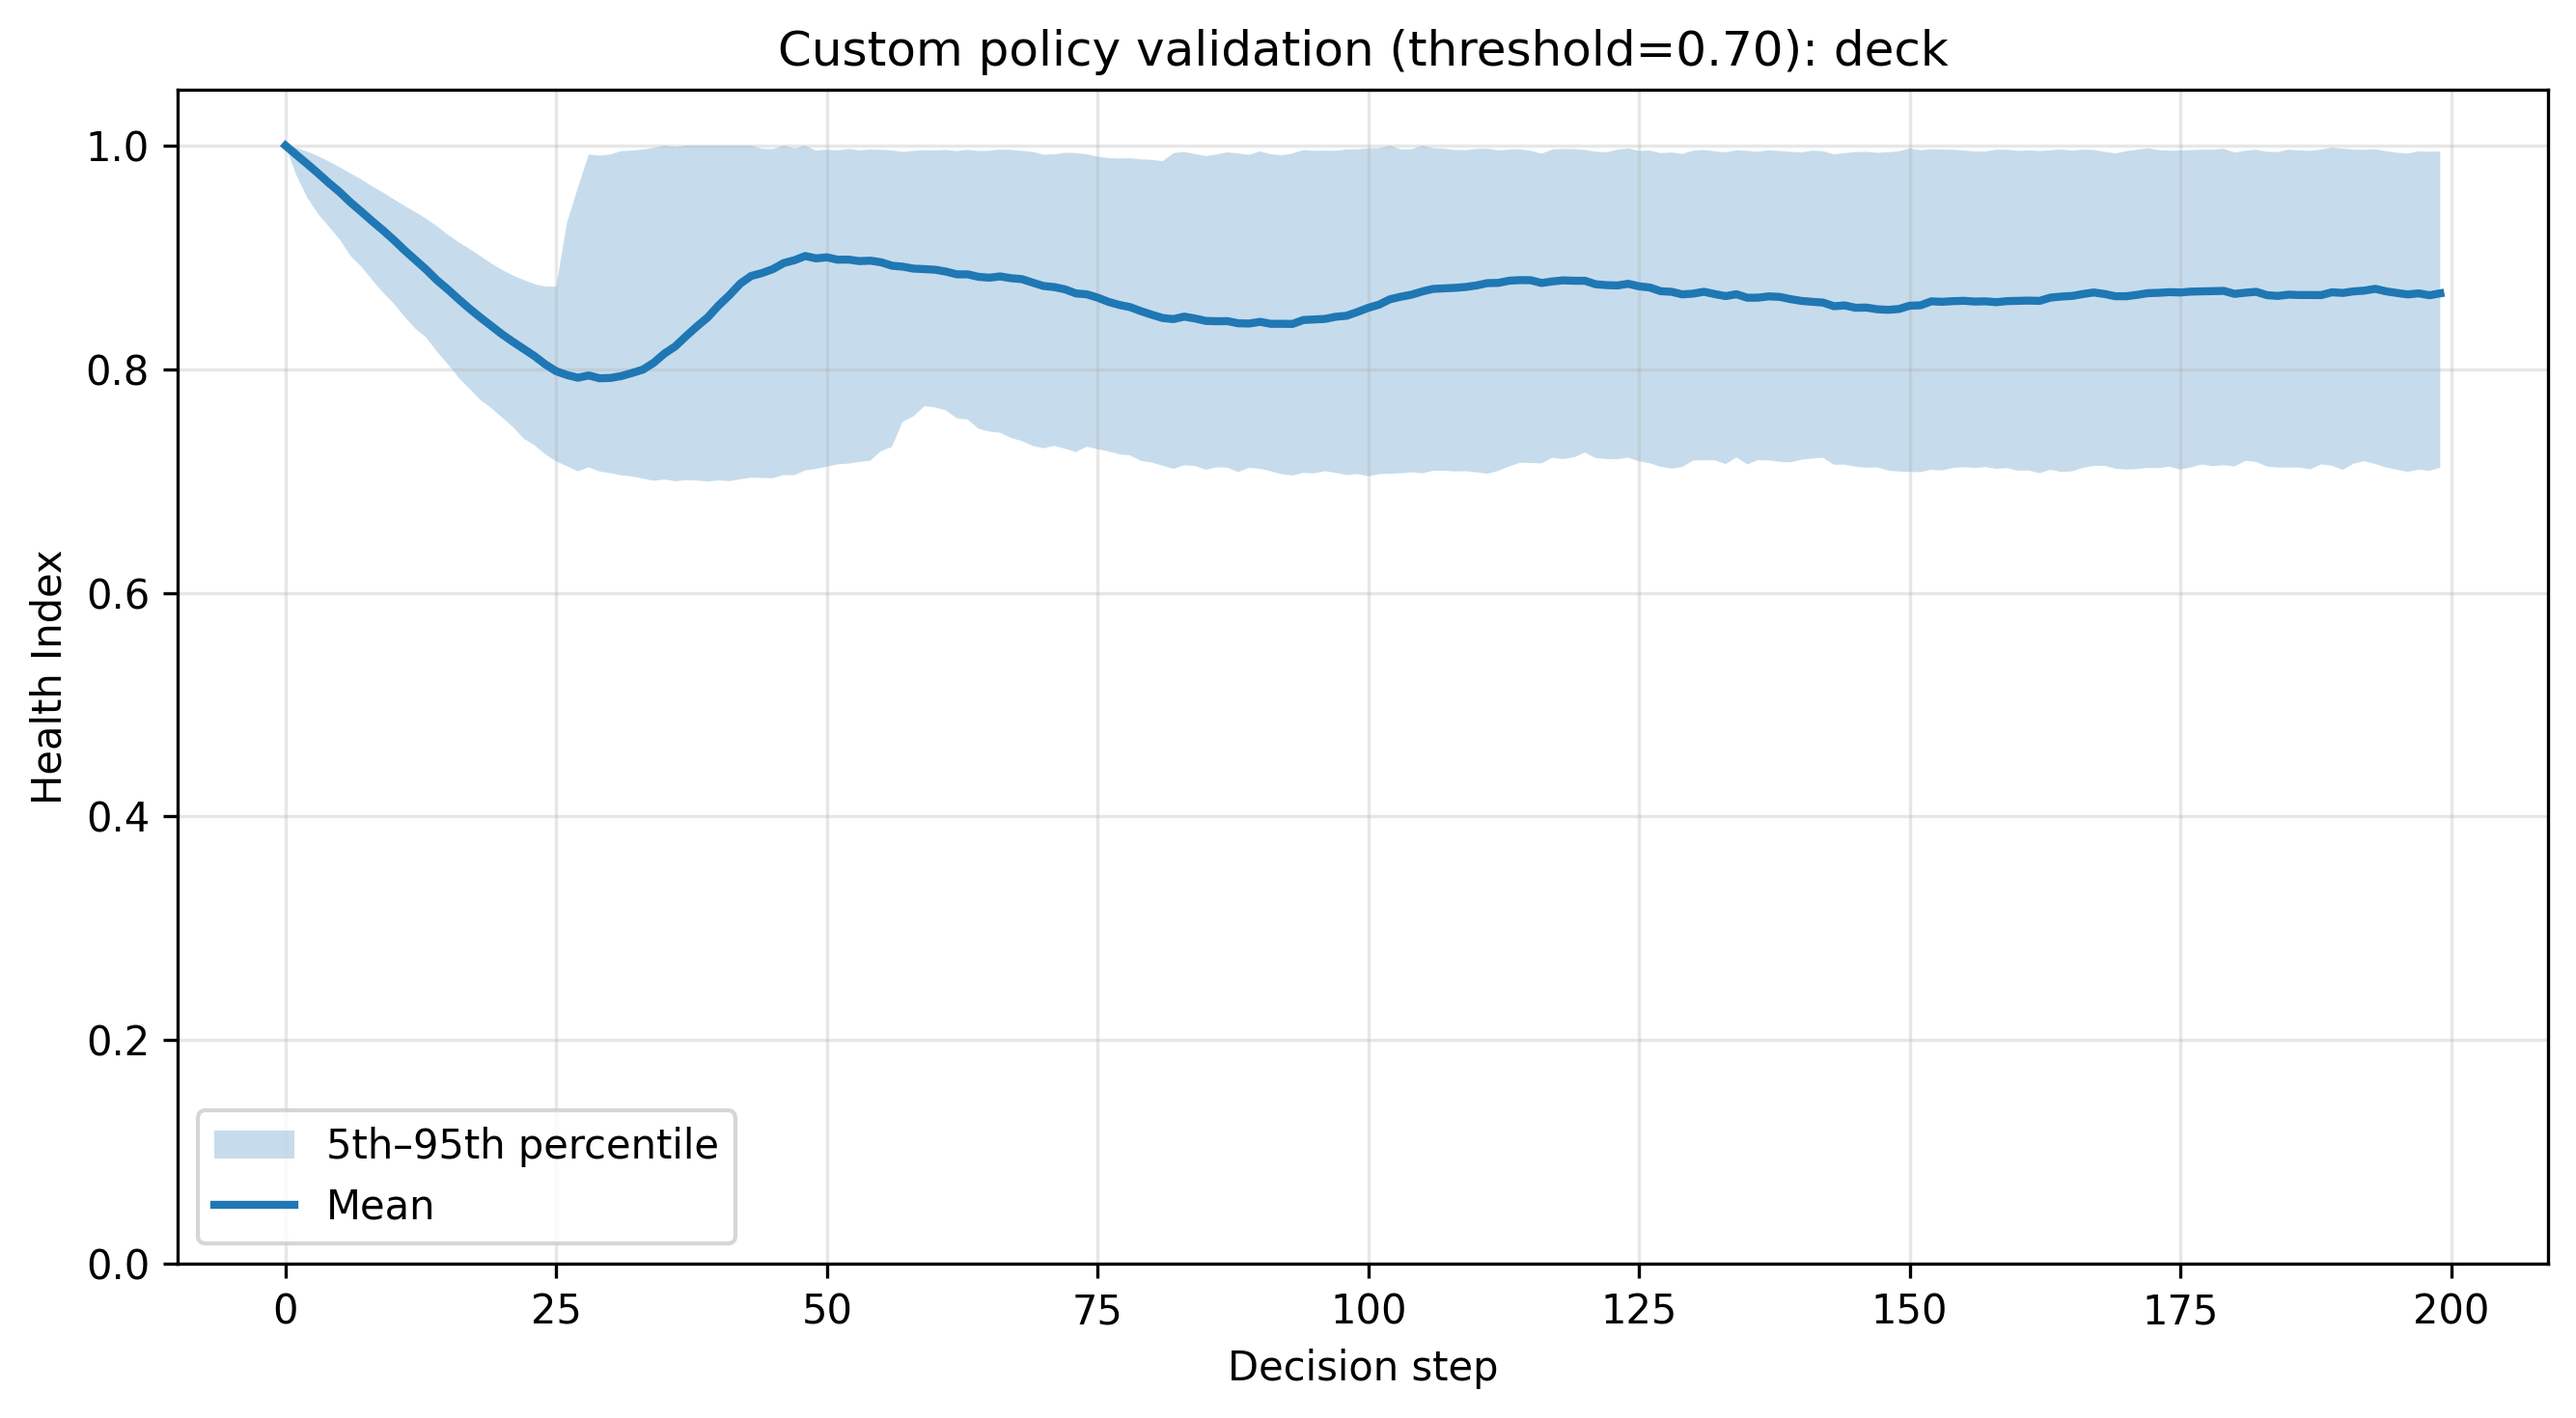
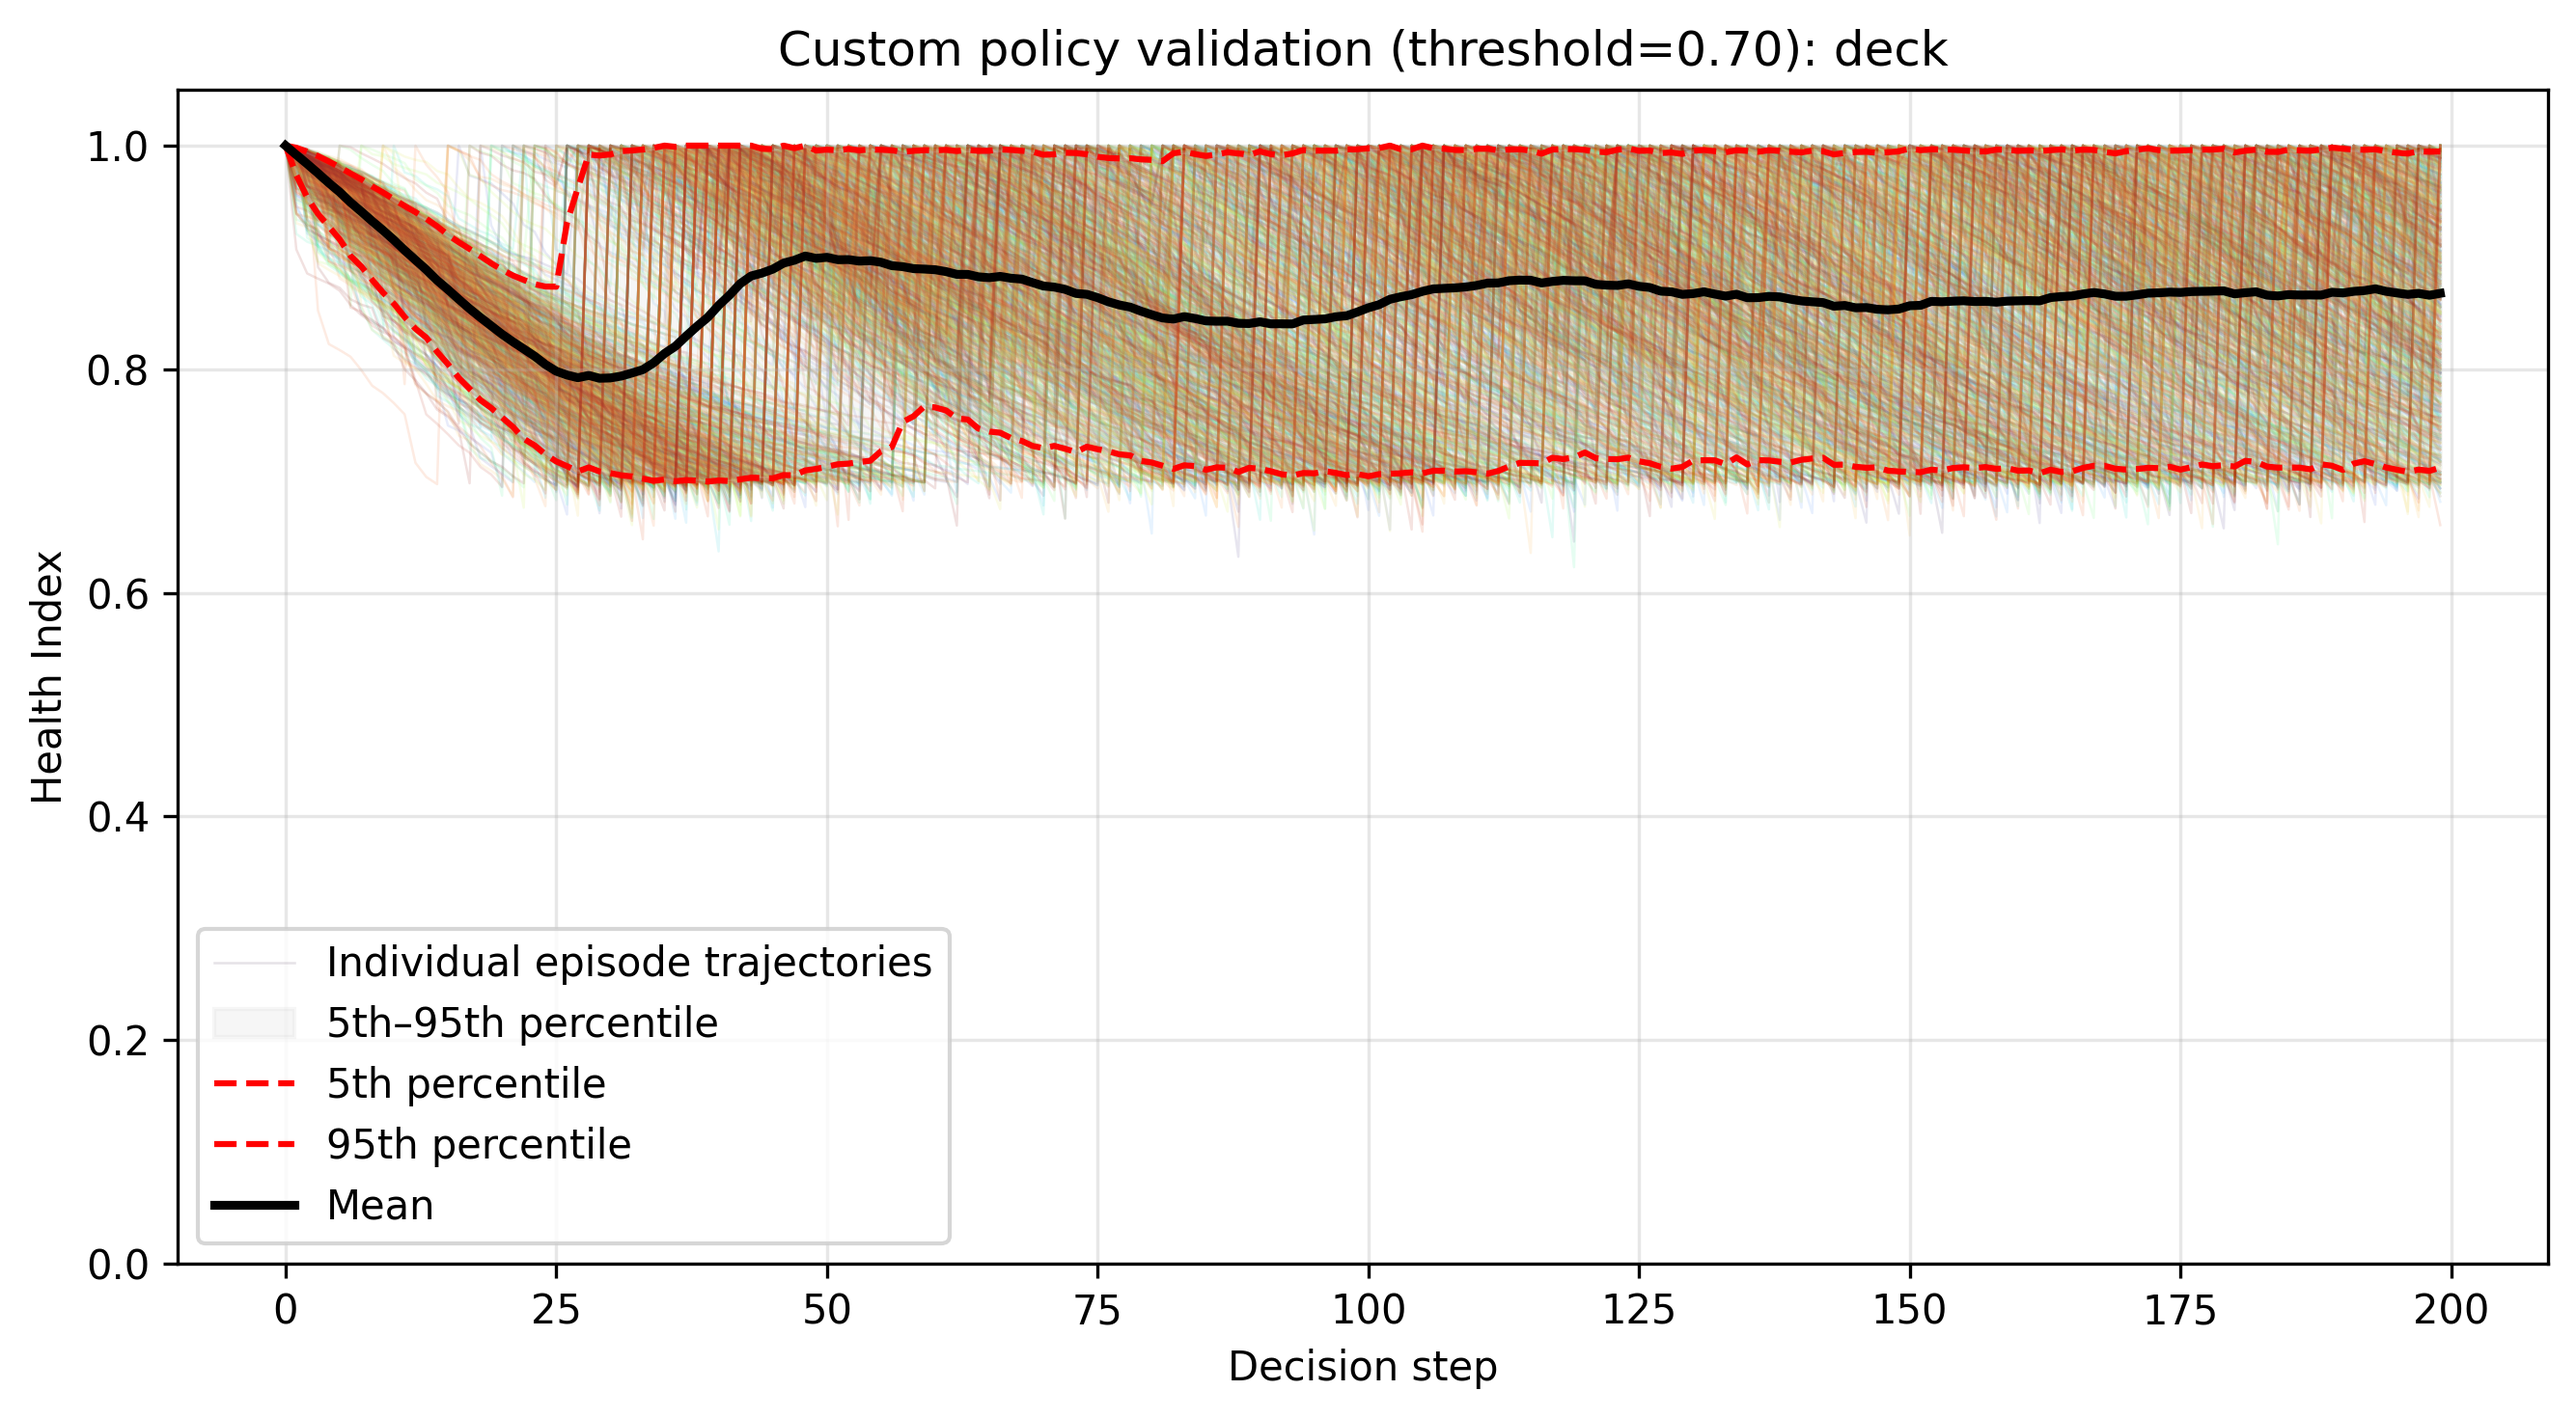
change to plot 5 and 95 percent with red line

diff --git a/hi_trajectories_in_validation_utils.py b/hi_trajectories_in_validation_utils.py
@@ -40,7 +40,7 @@ def plot_validation_hi_trajectories(
     calculator_owner = getattr(hi_calculator, "__self__", None)
     if isinstance(calculator_owner, torch.nn.Module):
         reference_tensor = next(iter(calculator_owner.parameters()),None)
-        
+
         if reference_tensor is None:
             reference_tensor = next(
                 iter(calculator_owner.buffers()),
@@ -90,28 +90,76 @@ def plot_validation_hi_trajectories(
             tight_layout=True,
         )
 
+
+
         if show_individual_episodes:
-            for episode_trajectory in trajectories:
+            episode_colors = plt.cm.turbo(
+                np.linspace(0.0, 1.0, num_episodes)
+            )
+
+            for episode_idx, episode_trajectory in enumerate(trajectories):
                 ax.plot(
                     time_steps,
                     episode_trajectory,
+                    color=episode_colors[episode_idx],
                     linewidth=0.6,
-                    alpha=0.08,
+                    alpha=0.12,
+                    zorder=1,
+                    label=(
+                        "Individual episode trajectories"
+                        if episode_idx == 0
+                        else None
+                    ),
                 )
+
+
+
+
+
 
         ax.fill_between(
             time_steps,
             lower_trajectory,
             upper_trajectory,
-            alpha=0.25,
+            color="lightgray",
+            alpha=0.20,
             label="5th–95th percentile",
+            zorder=2,
         )
+
+        ax.plot(
+            time_steps,
+            lower_trajectory,
+            color="red",
+            linestyle="--",
+            linewidth=1.5,
+            label="5th percentile",
+            zorder=3,
+        )
+
+        ax.plot(
+            time_steps,
+            upper_trajectory,
+            color="red",
+            linestyle="--",
+            linewidth=1.5,
+            label="95th percentile",
+            zorder=3,
+        )
+
         ax.plot(
             time_steps,
             mean_trajectory,
-            linewidth=2.0,
+            color="black",
+            linewidth=2.2,
             label="Mean",
+            zorder=4,
         )
+
+
+
+
+
 
         ax.set_xlabel("Decision step")
         ax.set_ylabel("Health Index")

diff --git a/bridge_bhi_validation_nn.py b/bridge_bhi_validation_nn.py
@@ -146,14 +146,8 @@ if __name__ == '__main__':
             f"{max_steps:d}yr_{STATE_TRANSITION_MODE}"
         ),
         title_prefix="NN actor validation",
+        show_individual_episodes=True,
     )
-
-
-
-
-
-
-
 
 
 

diff --git a/bridge_bhi_validation_custom_policy.py b/bridge_bhi_validation_custom_policy.py
@@ -172,9 +172,8 @@ if __name__ == "__main__":
             f"Custom policy validation "
             f"(threshold={POLICY_THRESHOLD:.2f})"
         ),
+        show_individual_episodes=True,
     )
-
-
 
 
 

diff --git a/bridge_bhi_validation_obtBHI.py b/bridge_bhi_validation_obtBHI.py
@@ -939,6 +939,7 @@ if __name__ == '__main__':
             f"{RUN_MODE_TAG}"
         ),
         title_prefix="Oblique-tree actor validation",
+        show_individual_episodes=True,
     )
 
 
